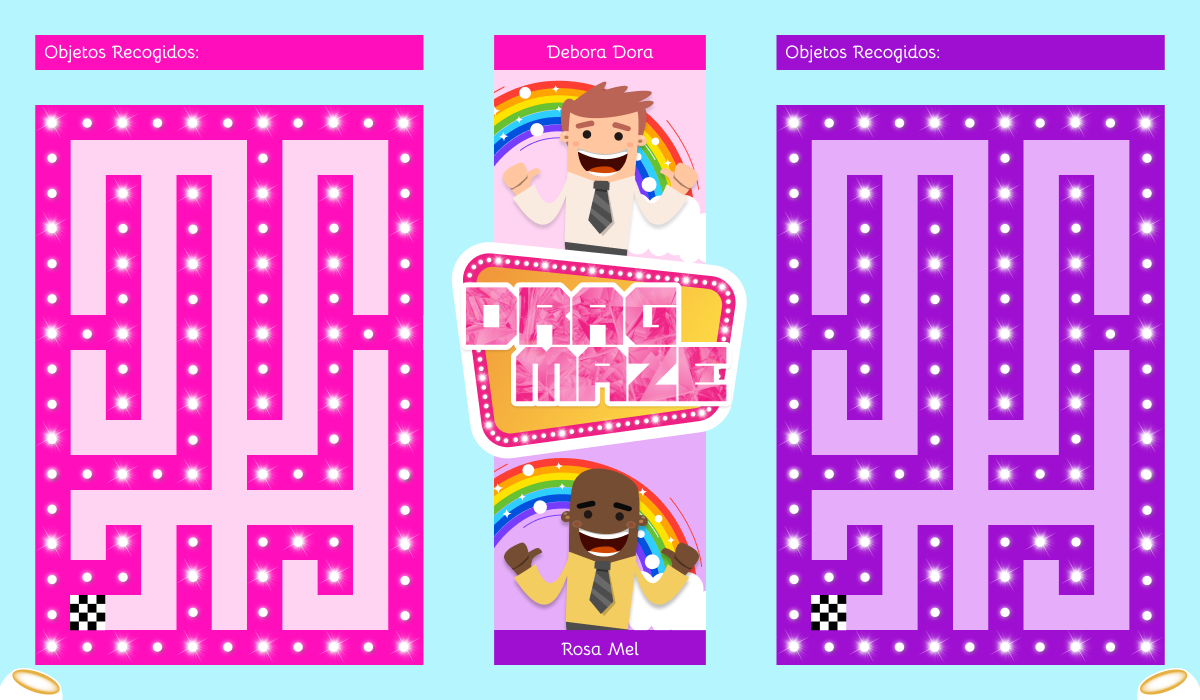
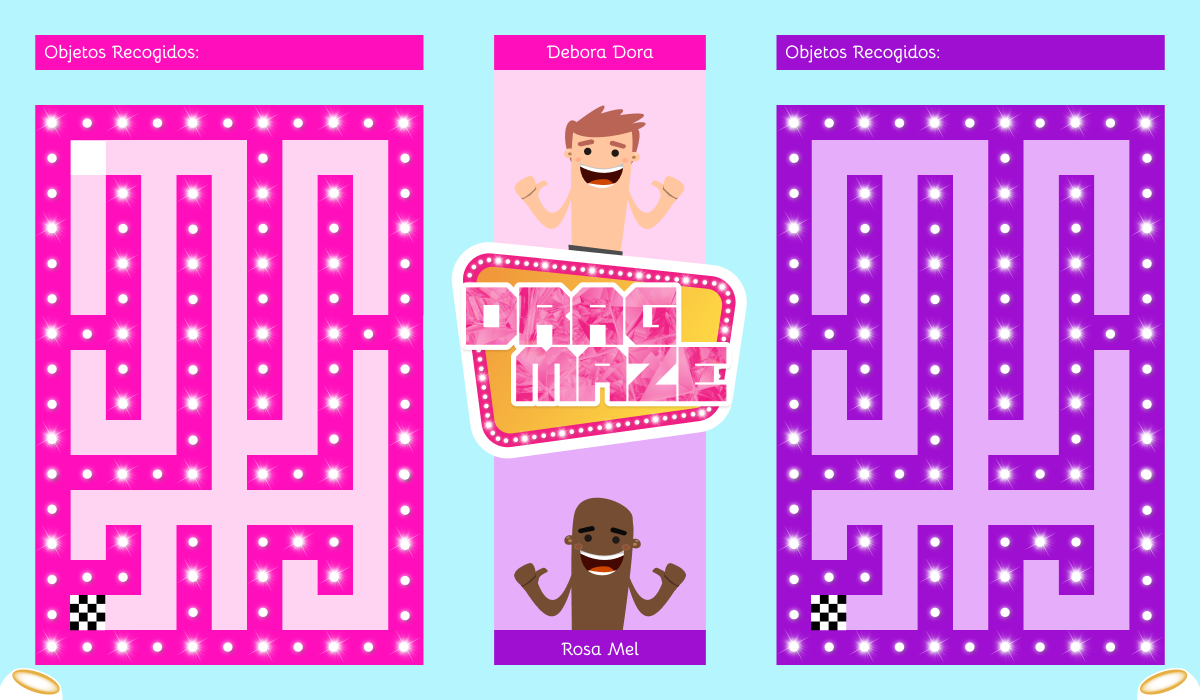
ya se mueven

Changed region(s): [[0.4008, 0.63, 0.5858, 0.9], [0.4008, 0.09, 0.5858, 0.39], [0.0617, 0.18, 0.0925, 0.27]]

diff --git a/src/main/Drags.java b/src/main/Drags.java
@@ -10,14 +10,17 @@ public abstract class Drags {
 	private int posx,posy;
 	private PApplet app;
 	private boolean moviendoarriba=false,moviendoabajo=false,moviendoderecho=false,moviendoizquierdo=false;
+	private float posxx,posyy;
 
-	public Drags(PImage imagendrag,String accion,int posx,int posy, PApplet app){
+	public Drags(PImage imagendrag,String accion,int posx,int posy,float posxx,float posyy, PApplet app){
 		
 		this.imagendrag=imagendrag;
 		this.accion=accion;
 		this.posx=posx;
 		this.posy=posy;
 		this.app=app;
+		this.posxx=posxx;
+		this.posyy=posyy;
 		
 	}
 
@@ -34,24 +37,30 @@ public abstract class Drags {
 		
 		if(moviendoarriba) {
 			
-			this.posy-=2;
+			this.posyy-=35.29;
 			
 			
 		}else if (moviendoabajo) {
 			
-			this.posy+=2;
+			this.posyy+=35.29;
 			
 		}else if (moviendoderecho) {
 			
 			
-			this.posx+=2;
+			this.posxx+=35.29;
 			
 		}else if (moviendoizquierdo) {
 			
-			this.posx-=2;
+			this.posxx-=35.29;
 			
 			
 		}
+		
+	}
+	
+	public void pintarimagen() {
+		
+		app.image(imagendrag,posxx,posyy);
 		
 	}
 	
@@ -159,6 +168,30 @@ public abstract class Drags {
 		
 		moviendoizquierdo=false;
 		
+	}
+
+
+
+	public float getPosyy() {
+		return posyy;
+	}
+
+
+
+	public void setPosyy(float posyy) {
+		this.posyy = posyy;
+	}
+
+
+
+	public float getPosxx() {
+		return posxx;
+	}
+
+
+
+	public void setPosxx(float posxx) {
+		this.posxx = posxx;
 	}
 
 

diff --git a/src/main/DragDebora.java b/src/main/DragDebora.java
@@ -5,8 +5,8 @@ import processing.core.PImage;
 
 public class DragDebora extends Drags {
 
-	public DragDebora(PImage imagendrag, String accion, int posx, int posy, PApplet app) {
-		super(imagendrag, accion, posx, posy, app);
+	public DragDebora(PImage imagendrag, String accion, int posx, int posy, float i, float j, PApplet app) {
+		super(imagendrag, accion, posx, posy,i,j, app);
 		// TODO Auto-generated constructor stub
 	}
 

diff --git a/src/main/DragRosa.java b/src/main/DragRosa.java
@@ -5,8 +5,8 @@ import processing.core.PImage;
 
 public class DragRosa extends Drags {
 
-	public DragRosa(PImage imagendrag, String accion, int posx, int posy, PApplet app) {
-		super(imagendrag, accion, posx, posy, app);
+	public DragRosa(PImage imagendrag, String accion, int posx, int posy,float i,float j, PApplet app) {
+		super(imagendrag, accion, posx, posy,i,j, app);
 		
 	}
 
